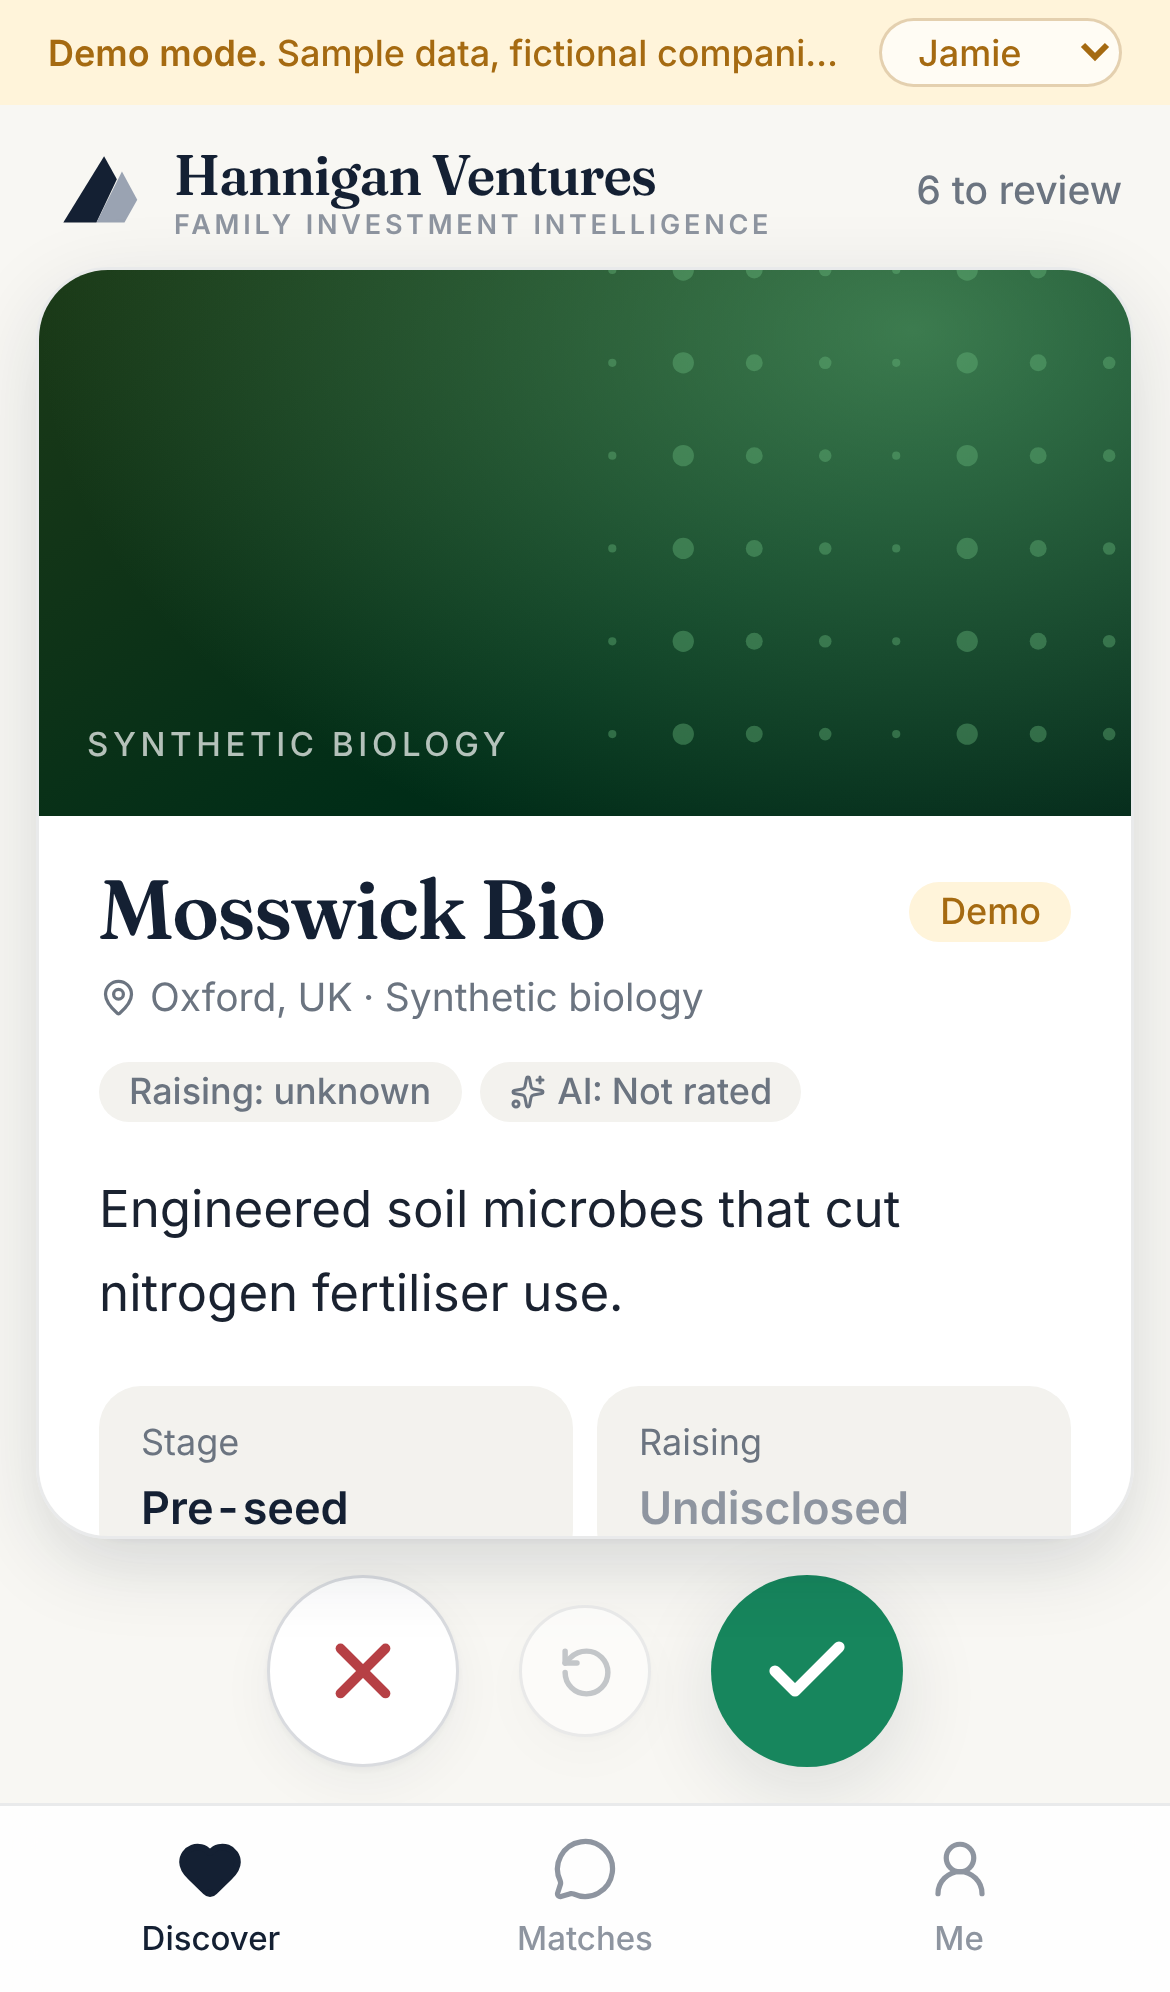
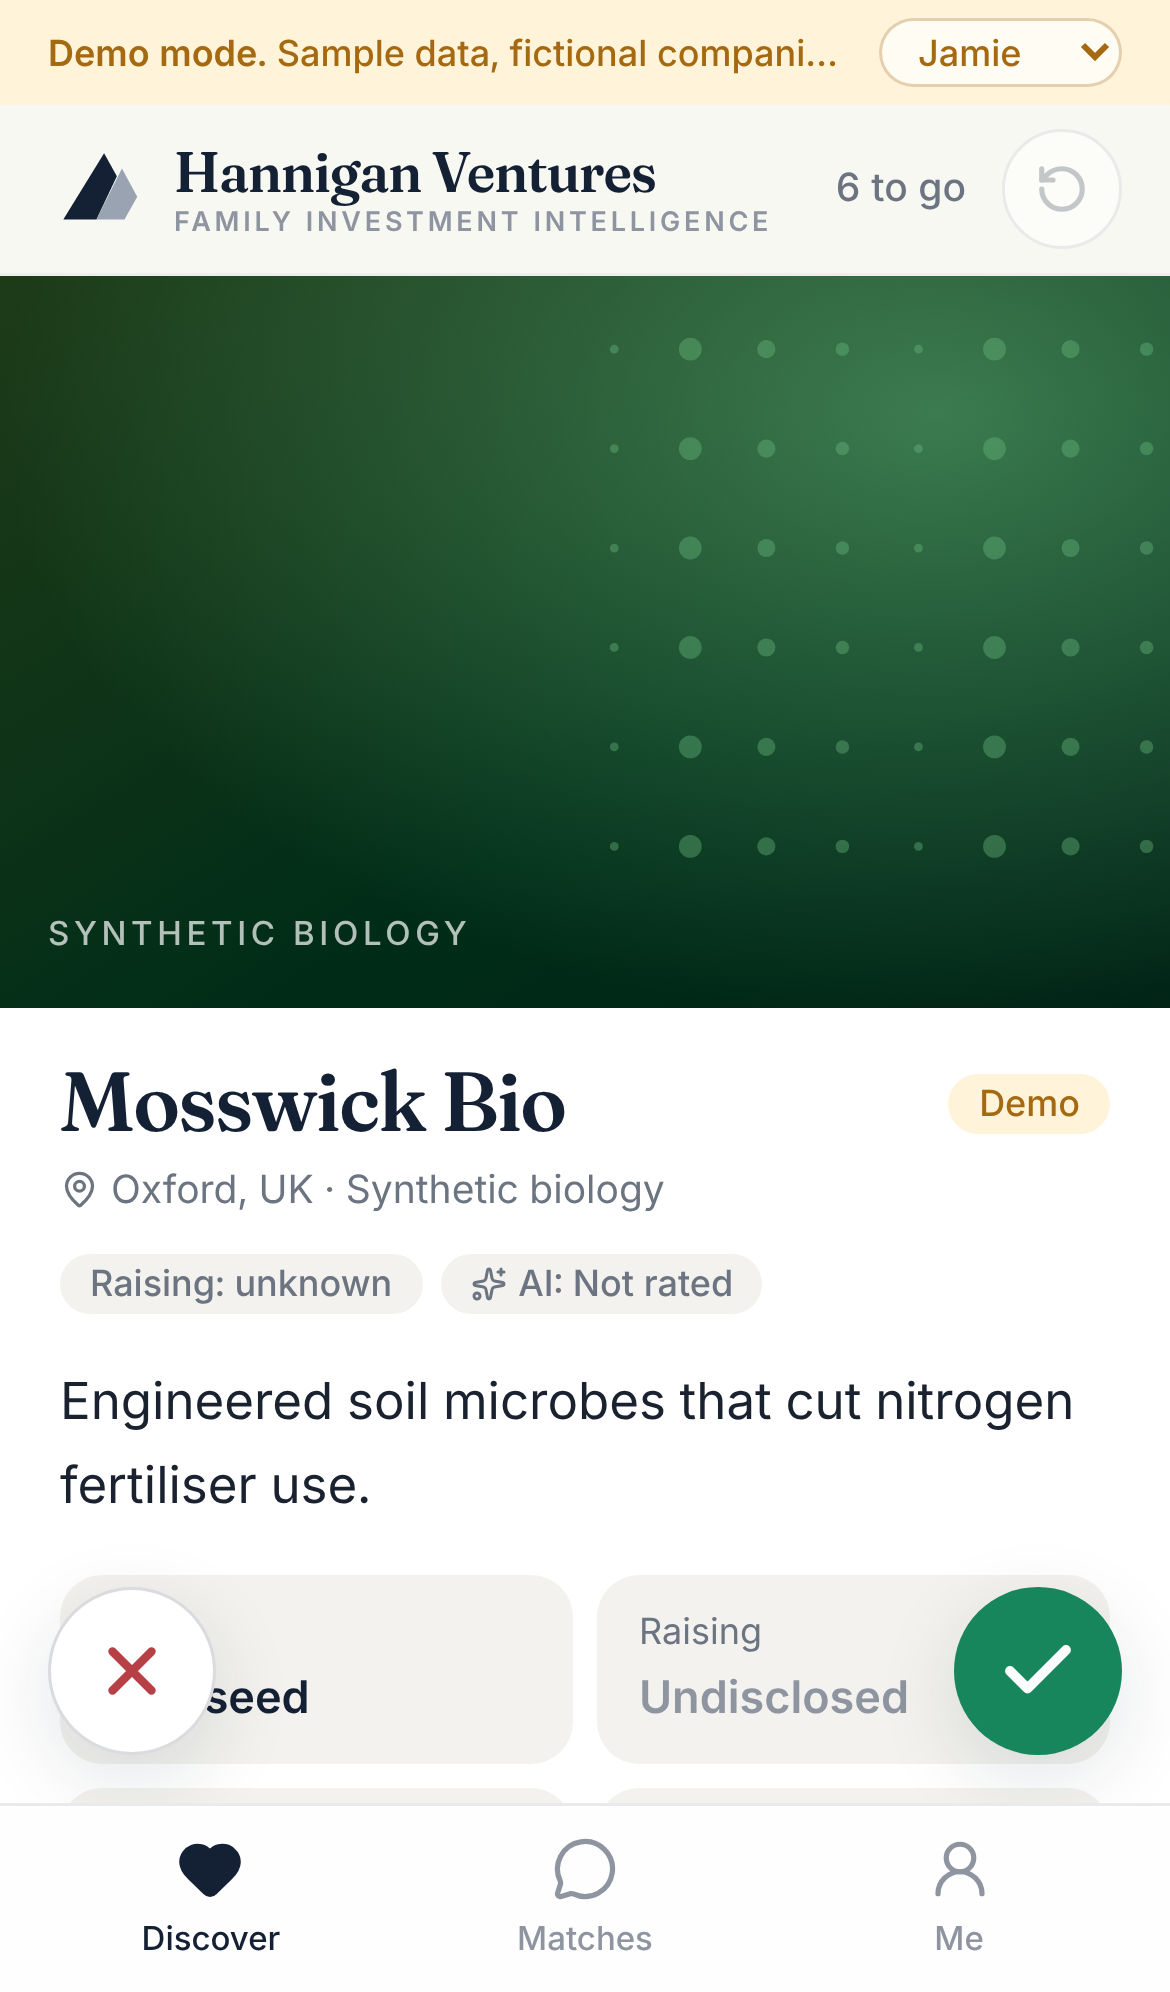
Swipe deck: full-screen scrolling profile instead of a card
The profile now fills the screen and scrolls like a normal page, with
the cross and tick floating in the bottom corners and undo in the top
bar. Sideways swiping still ticks or crosses. The remaining count
updates as you go.

Claude-Session: https://claude.ai/code/session_01HvYQUQht3hQ35wZDCst72F

diff --git a/components/swipe/swipe-deck.tsx b/components/swipe/swipe-deck.tsx
@@ -2,7 +2,8 @@
 
 import { Check, RotateCcw, X } from "lucide-react";
 import Link from "next/link";
-import { useCallback, useEffect, useRef, useState, useTransition, type CSSProperties } from "react";
+import { useCallback, useEffect, useRef, useState, useTransition, type CSSProperties, type ReactNode } from "react";
+import { Wordmark } from "@/components/navigation/logo";
 import { Avatar } from "@/components/ui/avatar";
 import { Button, LinkButton } from "@/components/ui/primitives";
 import { swipeAction, undoSwipeAction } from "@/lib/actions/swipe";
@@ -27,33 +28,37 @@ export function joinNames(names: string[]): string {
 }
 
 /**
- * The deck. Swipe right or tap ✓ to tick, swipe left or tap ✕ to cross, and
- * ↺ undoes the last swipe (repeatedly, newest first). The deck is local state
- * seeded from the server, so a refresh after each swipe never reshuffles it.
+ * The deck, Hinge-style: the whole screen is one company's profile, scrolled
+ * like any page. ✕ (bottom left) crosses, ✓ (bottom right) ticks, swiping
+ * sideways does the same, and ↺ (top right) undoes the last swipe
+ * (repeatedly, newest first). The deck is local state seeded from the
+ * server, so a refresh after each swipe never reshuffles it.
  */
-export function SwipeDeck({ initialCards, members, currentUserId }: { initialCards: SwipeCard[]; members: Member[]; currentUserId: string }) {
+export function SwipeDeck({ initialCards, members, currentUserId, banner }: { initialCards: SwipeCard[]; members: Member[]; currentUserId: string; banner?: ReactNode }) {
   const [deck, setDeck] = useState(initialCards);
   const [history, setHistory] = useState<Swiped[]>([]);
-  const [flying, setFlying] = useState<{ card: SwipeCard; dir: Dir; fromX: number } | null>(null);
-  const [returning, setReturning] = useState<string | null>(null);
+  const [leaving, setLeaving] = useState<{ card: SwipeCard; dir: Dir; fromX: number } | null>(null);
+  const [entering, setEntering] = useState<"next" | "back" | null>(null);
   const [overlay, setOverlay] = useState<Overlay>(null);
   const [error, setError] = useState<string | null>(null);
   const [dx, setDx] = useState(0);
   const [, startTransition] = useTransition();
   const pointer = useRef<{ id: number; x: number; y: number; mode: "undecided" | "h" | "v" } | null>(null);
   const suppressClick = useRef(false);
-  const scroller = useRef<HTMLDivElement>(null);
   const top = deck[0] ?? null;
-  const next = deck[1] ?? null;
+  // While a profile animates away it stays on screen; the deck has already moved on.
+  const shown = leaving?.card ?? top;
+
+  const toTop = () => document.getElementById("main")?.scrollTo({ top: 0 });
 
   const commit = useCallback(
     (dir: Dir, fromX = 0) => {
-      if (!top) return;
+      if (!top || leaving) return;
       const card = top;
       setError(null);
       setDeck((d) => d.filter((c) => c.company.id !== card.company.id));
       setHistory((h) => [...h, { card, previousVote: card.myVote }]);
-      setFlying({ card, dir, fromX });
+      setLeaving({ card, dir, fromX });
       setDx(0);
       startTransition(async () => {
         const res = await swipeAction({ companyId: card.company.id, slug: card.company.slug, vote: dir === "right" ? "interested" : "pass" });
@@ -68,7 +73,7 @@ export function SwipeDeck({ initialCards, members, currentUserId }: { initialCar
         else if (outcome.kind === "almost") setOverlay({ kind: "almost", card, likedBy: outcome.likedBy });
       });
     },
-    [top],
+    [top, leaving],
   );
 
   const undo = useCallback(() => {
@@ -76,9 +81,11 @@ export function SwipeDeck({ initialCards, members, currentUserId }: { initialCar
     if (!last) return;
     setError(null);
     setOverlay(null);
+    setLeaving(null);
     setHistory((h) => h.slice(0, -1));
     setDeck((d) => [last.card, ...d.filter((c) => c.company.id !== last.card.company.id)]);
-    setReturning(last.card.company.id);
+    setEntering("back");
+    toTop();
     startTransition(async () => {
       const res = await undoSwipeAction({ companyId: last.card.company.id, slug: last.card.company.slug, previousVote: last.previousVote });
       if (!res.ok) {
@@ -89,22 +96,18 @@ export function SwipeDeck({ initialCards, members, currentUserId }: { initialCar
     });
   }, [history]);
 
-  // A fresh card starts at the top of its profile.
-  useEffect(() => {
-    scroller.current?.scrollTo({ top: 0 });
-  }, [top?.company.id]);
+  const finishLeaving = () => {
+    if (!leaving) return;
+    setLeaving(null);
+    setEntering("next");
+    toTop();
+  };
 
   useEffect(() => {
-    if (!flying) return;
-    const t = setTimeout(() => setFlying(null), 320);
+    if (!entering) return;
+    const t = setTimeout(() => setEntering(null), 320);
     return () => clearTimeout(t);
-  }, [flying]);
-
-  useEffect(() => {
-    if (!returning) return;
-    const t = setTimeout(() => setReturning(null), 360);
-    return () => clearTimeout(t);
-  }, [returning]);
+  }, [entering]);
 
   useEffect(() => {
     const onKey = (e: KeyboardEvent) => {
@@ -118,7 +121,7 @@ export function SwipeDeck({ initialCards, members, currentUserId }: { initialCar
   }, [commit, undo, overlay]);
 
   const onPointerDown = (e: React.PointerEvent<HTMLDivElement>) => {
-    if (e.pointerType === "mouse" && e.button !== 0) return;
+    if (leaving || (e.pointerType === "mouse" && e.button !== 0)) return;
     pointer.current = { id: e.pointerId, x: e.clientX, y: e.clientY, mode: "undecided" };
   };
   const onPointerMove = (e: React.PointerEvent<HTMLDivElement>) => {
@@ -144,105 +147,109 @@ export function SwipeDeck({ initialCards, members, currentUserId }: { initialCar
     else setDx(0);
   };
 
-  const tilt = Math.max(-14, Math.min(14, dx / 18));
+  const tilt = Math.max(-6, Math.min(6, dx / 40));
   const strength = Math.min(Math.abs(dx) / SWIPE_DISTANCE, 1);
+  const remaining = deck.length;
 
   return (
-    <div className="mx-auto flex min-h-0 w-full max-w-[480px] flex-1 flex-col px-3 pb-3">
-      <div className="relative min-h-0 flex-1">
-        {next ? (
-          <div className="absolute inset-0 origin-bottom scale-[0.96] overflow-hidden rounded-[24px] border border-hairline bg-surface opacity-70 shadow-[var(--shadow-card)]" aria-hidden inert>
-            <CompanyProfile card={next} />
-          </div>
-        ) : null}
-
-        {top ? (
-          <div
-            key={top.company.id}
-            ref={scroller}
-            className={cn(
-              "absolute inset-0 touch-pan-y overflow-y-auto overscroll-contain rounded-[24px] border border-hairline bg-surface shadow-[var(--shadow-float)]",
-              dx !== 0 ? "select-none" : "transition-transform duration-200 ease-out",
-              returning === top.company.id && "animate-[card-return_340ms_ease-out]",
-            )}
-            style={{ transform: dx ? `translateX(${dx}px) rotate(${tilt}deg)` : undefined }}
-            onPointerDown={onPointerDown}
-            onPointerMove={onPointerMove}
-            onPointerUp={onPointerEnd}
-            onPointerCancel={onPointerEnd}
-            onClickCapture={(e) => {
-              if (suppressClick.current) {
-                suppressClick.current = false;
-                e.preventDefault();
-                e.stopPropagation();
-              }
-            }}
+    <div className="relative flex flex-1 flex-col">
+      <header className="sticky top-0 z-30 border-b border-hairline/70 bg-page/92 backdrop-blur supports-[backdrop-filter]:bg-page/80">
+        <div className="mx-auto flex min-h-[56px] w-full max-w-[640px] items-center gap-3 px-4">
+          <Wordmark className="min-w-0 flex-1" />
+          <p className="shrink-0 whitespace-nowrap text-[13px] font-medium text-secondary" aria-live="polite">
+            {remaining === 0 ? "All done" : `${remaining} to go`}
+          </p>
+          <button
+            type="button"
+            onClick={undo}
+            disabled={history.length === 0}
+            aria-label="Undo last swipe"
+            title="Undo last swipe"
+            className="inline-flex h-10 w-10 shrink-0 items-center justify-center rounded-full border border-hairline-strong bg-surface text-amber transition-transform active:scale-90 disabled:text-tertiary disabled:opacity-50"
           >
-            <CompanyProfile card={top} />
-          </div>
-        ) : !flying ? (
-          <CaughtUp />
-        ) : null}
+            <RotateCcw size={18} strokeWidth={2.3} />
+          </button>
+        </div>
+      </header>
 
-        {top && dx !== 0 ? (
-          <div className="pointer-events-none absolute inset-x-0 top-6 z-10 flex justify-between px-6" aria-hidden>
-            <span className="rotate-[-12deg] rounded-[10px] border-[3px] border-green bg-surface/90 px-3 py-1 text-[22px] font-bold uppercase tracking-[0.08em] text-green" style={{ opacity: dx > 0 ? strength : 0 }}>
-              Tick
-            </span>
-            <span className="rotate-[12deg] rounded-[10px] border-[3px] border-red bg-surface/90 px-3 py-1 text-[22px] font-bold uppercase tracking-[0.08em] text-red" style={{ opacity: dx < 0 ? strength : 0 }}>
-              Cross
-            </span>
-          </div>
-        ) : null}
-
-        {flying ? (
-          <div
-            key={`fly-${flying.card.company.id}`}
-            className="pointer-events-none absolute inset-0 z-20 overflow-hidden rounded-[24px] border border-hairline bg-surface shadow-[var(--shadow-float)]"
-            style={{ animation: `${flying.dir === "right" ? "fly-right" : "fly-left"} 320ms ease-in forwards`, "--from-x": `${flying.fromX}px`, "--from-r": `${Math.max(-14, Math.min(14, flying.fromX / 18))}deg` } as CSSProperties}
-            aria-hidden
-          >
-            <CompanyProfile card={flying.card} />
-          </div>
-        ) : null}
-      </div>
+      {banner}
 
       {error ? (
-        <p role="alert" className="mt-2 text-center text-[13px] text-red">
+        <p role="alert" className="px-4 py-2 text-center text-[13px] text-red">
           {error}
         </p>
       ) : null}
 
-      <div className="flex shrink-0 items-center justify-center gap-5 pt-3">
-        <button
-          type="button"
-          onClick={() => commit("left")}
-          disabled={!top}
-          aria-label="Cross: not for us"
-          className="inline-flex h-16 w-16 items-center justify-center rounded-full border border-hairline-strong bg-surface text-red shadow-[var(--shadow-card)] transition-transform active:scale-90 disabled:opacity-40"
+      {shown ? (
+        <div
+          key={shown.company.id}
+          className={cn(
+            "mx-auto w-full max-w-[640px] flex-1 touch-pan-y",
+            dx !== 0 ? "select-none" : !leaving && "transition-transform duration-200 ease-out",
+            entering === "back" && "animate-[card-return_300ms_ease-out]",
+            entering === "next" && "animate-[profile-in_260ms_ease-out]",
+          )}
+          style={
+            leaving
+              ? ({ animation: `${leaving.dir === "right" ? "fly-right" : "fly-left"} 260ms ease-in forwards`, "--from-x": `${leaving.fromX}px`, "--from-r": `${Math.max(-6, Math.min(6, leaving.fromX / 40))}deg` } as CSSProperties)
+              : dx
+                ? { transform: `translateX(${dx}px) rotate(${tilt}deg)` }
+                : undefined
+          }
+          onAnimationEnd={(e) => {
+            if (e.target === e.currentTarget && leaving) finishLeaving();
+          }}
+          onPointerDown={onPointerDown}
+          onPointerMove={onPointerMove}
+          onPointerUp={onPointerEnd}
+          onPointerCancel={onPointerEnd}
+          onClickCapture={(e) => {
+            if (suppressClick.current) {
+              suppressClick.current = false;
+              e.preventDefault();
+              e.stopPropagation();
+            }
+          }}
+          inert={leaving ? true : undefined}
         >
-          <X size={30} strokeWidth={2.6} />
-        </button>
-        <button
-          type="button"
-          onClick={undo}
-          disabled={history.length === 0}
-          aria-label="Undo last swipe"
-          title="Undo last swipe"
-          className="inline-flex h-11 w-11 items-center justify-center rounded-full border border-hairline-strong bg-surface text-amber shadow-[var(--shadow-card)] transition-transform active:scale-90 disabled:text-tertiary disabled:opacity-50"
-        >
-          <RotateCcw size={19} strokeWidth={2.3} />
-        </button>
-        <button
-          type="button"
-          onClick={() => commit("right")}
-          disabled={!top}
-          aria-label="Tick: interested"
-          className="inline-flex h-16 w-16 items-center justify-center rounded-full bg-green text-white shadow-[var(--shadow-float)] transition-transform active:scale-90 disabled:opacity-40"
-        >
-          <Check size={32} strokeWidth={2.8} />
-        </button>
-      </div>
+          <CompanyProfile card={shown} />
+        </div>
+      ) : (
+        <CaughtUp />
+      )}
+
+      {shown && dx !== 0 ? (
+        <div className="pointer-events-none fixed inset-x-0 top-28 z-30 mx-auto flex max-w-[640px] justify-between px-6" aria-hidden>
+          <span className="rotate-[-12deg] rounded-[10px] border-[3px] border-green bg-surface/90 px-3 py-1 text-[22px] font-bold uppercase tracking-[0.08em] text-green" style={{ opacity: dx > 0 ? strength : 0 }}>
+            Tick
+          </span>
+          <span className="rotate-[12deg] rounded-[10px] border-[3px] border-red bg-surface/90 px-3 py-1 text-[22px] font-bold uppercase tracking-[0.08em] text-red" style={{ opacity: dx < 0 ? strength : 0 }}>
+            Cross
+          </span>
+        </div>
+      ) : null}
+
+      {/* Thumb-reach corners, pinned to the bottom of the screen while the profile scrolls underneath. */}
+      {top ? (
+        <div className="pointer-events-none sticky bottom-0 z-20 mx-auto flex w-full max-w-[640px] justify-between px-4 pb-4 pt-2">
+          <button
+            type="button"
+            onClick={() => commit("left")}
+            aria-label="Cross: not for us"
+            className="pointer-events-auto inline-flex h-14 w-14 items-center justify-center rounded-full border border-hairline-strong bg-surface text-red shadow-[var(--shadow-float)] transition-transform active:scale-90"
+          >
+            <X size={26} strokeWidth={2.6} />
+          </button>
+          <button
+            type="button"
+            onClick={() => commit("right")}
+            aria-label="Tick: interested"
+            className="pointer-events-auto inline-flex h-14 w-14 items-center justify-center rounded-full bg-green text-white shadow-[var(--shadow-float)] transition-transform active:scale-90"
+          >
+            <Check size={28} strokeWidth={2.8} />
+          </button>
+        </div>
+      ) : null}
 
       {overlay?.kind === "match" ? <MatchOverlay card={overlay.card} members={members} currentUserId={currentUserId} onClose={() => setOverlay(null)} /> : null}
       {overlay?.kind === "almost" ? <AlmostSheet card={overlay.card} likedBy={overlay.likedBy} onUndo={undo} onClose={() => setOverlay(null)} /> : null}
@@ -252,7 +259,7 @@ export function SwipeDeck({ initialCards, members, currentUserId }: { initialCar
 
 function CaughtUp() {
   return (
-    <div className="absolute inset-0 flex flex-col items-center justify-center rounded-[24px] border border-dashed border-hairline-strong bg-surface/60 px-8 text-center">
+    <div className="mx-auto flex w-full max-w-[640px] flex-1 flex-col items-center justify-center px-8 py-16 text-center">
       <span className="inline-flex h-14 w-14 items-center justify-center rounded-full bg-green-pale text-green">
         <Check size={28} strokeWidth={2.6} aria-hidden />
       </span>

diff --git a/app/(swipe)/page.tsx b/app/(swipe)/page.tsx
@@ -1,6 +1,5 @@
 import { Hourglass, PartyPopper } from "lucide-react";
 import Link from "next/link";
-import { Wordmark } from "@/components/navigation/logo";
 import { SwipeDeck } from "@/components/swipe/swipe-deck";
 import { requireMember } from "@/lib/auth/current-member";
 import { getRepository } from "@/lib/data";
@@ -18,29 +17,18 @@ export default async function DiscoverDeckPage() {
   const waiting = waitingOnMe(deck, members, member.userId);
   const newMatch = notifications.find((n) => !n.readAt && n.notificationType === "shortlist_promoted" && n.href.startsWith("/matches"));
 
-  return (
-    <div className="flex min-h-0 flex-1 flex-col">
-      <header className="mx-auto flex w-full max-w-[480px] shrink-0 items-center justify-between gap-3 px-4 pb-2 pt-3">
-        <Wordmark />
-        <p className="shrink-0 whitespace-nowrap text-[13px] font-medium text-secondary" aria-live="polite">
-          {cards.length === 0 ? "Nothing to review" : `${cards.length} to review`}
-        </p>
-      </header>
+  const banner = newMatch ? (
+    <Link href={newMatch.href} className="mx-auto mt-2 flex w-[calc(100%-32px)] max-w-[608px] items-center gap-2.5 rounded-[14px] bg-ink px-3.5 py-2.5 text-[13px] text-white">
+      <PartyPopper size={17} className="shrink-0" aria-hidden />
+      <span className="min-w-0 flex-1 truncate">{newMatch.title}</span>
+      <span className="shrink-0 font-semibold">Open chat</span>
+    </Link>
+  ) : waiting > 0 ? (
+    <p className="mx-auto mt-2 flex w-[calc(100%-32px)] max-w-[608px] items-center gap-2 rounded-[14px] bg-amber-pale px-3.5 py-2.5 text-[13px] text-amber" role="status">
+      <Hourglass size={16} className="shrink-0" aria-hidden />
+      {waiting === 1 ? "1 company here is waiting on your swipe." : `${waiting} companies here are waiting on your swipe.`}
+    </p>
+  ) : null;
 
-      {newMatch ? (
-        <Link href={newMatch.href} className="mx-auto mb-2 flex w-[calc(100%-24px)] max-w-[456px] shrink-0 items-center gap-2.5 rounded-[14px] bg-ink px-3.5 py-2.5 text-[13px] text-white">
-          <PartyPopper size={17} className="shrink-0" aria-hidden />
-          <span className="min-w-0 flex-1 truncate">{newMatch.title}</span>
-          <span className="shrink-0 font-semibold">Open chat</span>
-        </Link>
-      ) : waiting > 0 ? (
-        <p className="mx-auto mb-2 flex w-[calc(100%-24px)] max-w-[456px] shrink-0 items-center gap-2 rounded-[14px] bg-amber-pale px-3.5 py-2.5 text-[13px] text-amber" role="status">
-          <Hourglass size={16} className="shrink-0" aria-hidden />
-          {waiting === 1 ? "1 company in your deck is waiting on your swipe." : `${waiting} companies in your deck are waiting on your swipe.`}
-        </p>
-      ) : null}
-
-      <SwipeDeck key={member.userId} initialCards={cards} members={members} currentUserId={member.userId} />
-    </div>
-  );
+  return <SwipeDeck key={member.userId} initialCards={cards} members={members} currentUserId={member.userId} banner={banner} />;
 }

diff --git a/components/swipe/company-profile.tsx b/components/swipe/company-profile.tsx
@@ -15,7 +15,7 @@ export function CompanyProfile({ card, className }: { card: SwipeCard; className
   const { company } = card;
   return (
     <article className={cn("bg-surface", className)} aria-label={company.name}>
-      <div className="relative aspect-[2/1] w-full overflow-hidden bg-surface-muted">
+      <div className="relative aspect-[16/10] w-full overflow-hidden bg-surface-muted">
         <CompanyArtwork company={company} media={card.media} logo={card.logo} variant="hero" />
       </div>
 

diff --git a/app/globals.css b/app/globals.css
@@ -287,3 +287,8 @@ html[data-launched] .launch-splash {
   from { transform: translateY(100%); }
   to { transform: none; }
 }
+
+@keyframes profile-in {
+  from { transform: translateY(16px); opacity: 0; }
+  to { transform: none; opacity: 1; }
+}
